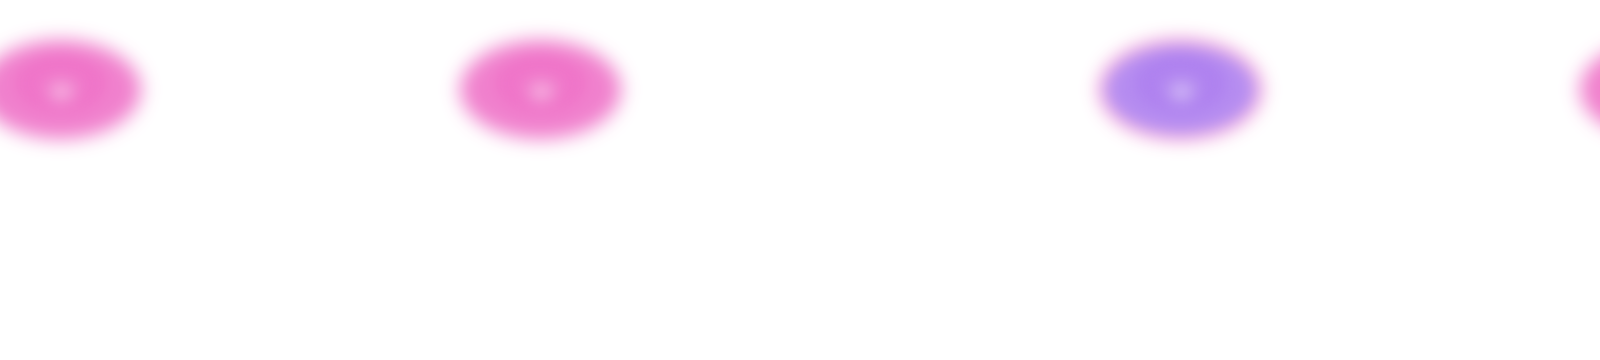
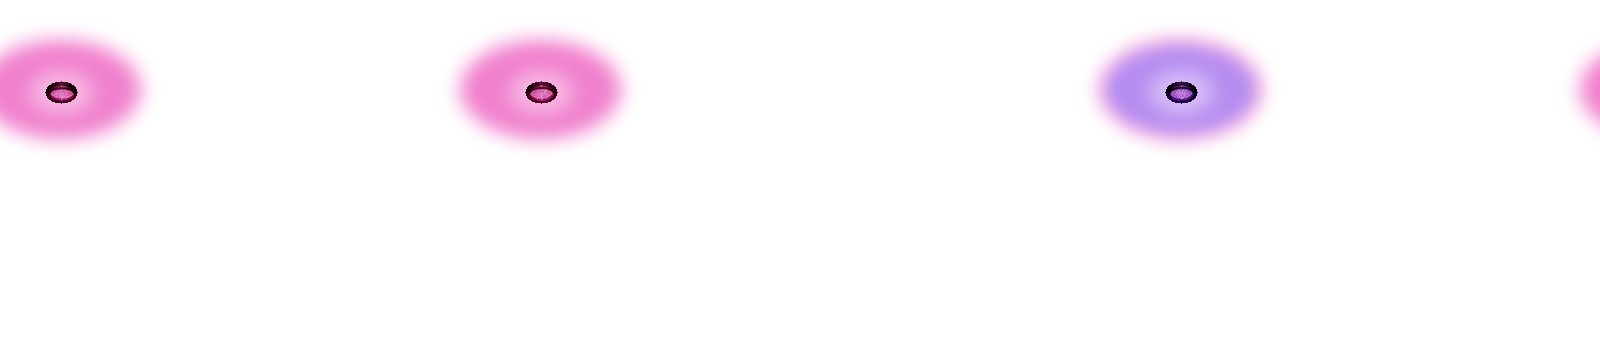
fix: ai art 2

Changed region(s): [[0.3125, 0.1833, 0.375, 0.3361], [0.0, 0.1833, 0.0625, 0.3361], [0.7188, 0.1833, 0.7812, 0.3361]]

diff --git a/tools/prep-concert-lamps.py b/tools/prep-concert-lamps.py
@@ -3,19 +3,28 @@
 
     python3 tools/prep-concert-lamps.py [public/assets/bg/scenery-concert.png] [--out PATH]
 
-Run it on the output of tools/prep-scenery-image.py, in place by default. Two deterministic steps that
+Run it on the output of tools/prep-scenery-image.py, in place by default. Three deterministic steps that
 touch nothing else:
 
   1. The six LIT lamp lenses (lamp heads 0, 2, 3, 5, 7, 8 at x = 60 + 160 * i) are dimmed to a dull
      dark-glass look like the unlit heads, so at the pulse trough the lamps read as off and the additive
      glow images (lens + halo + hot core, tools/gen-concert-assets.py) light them up on the beat.
      Idempotent: only pixels still bright and saturated inside a lens ellipse are changed.
-  2. The top row (and a short fade below it) is made exactly SKY, so `sky` in SCENERY_THEMES.concert
+  2. The coloured haze the AI art paints around each lit lens is neutralised inside a bounded ellipse
+     (HAZE_RX x HAZE_RY around the lens): pixels that are tinted in the lamp's hue are
+     pulled to the median tone of the ring just outside the ellipse, held at the dark tone out to 80% of the radius, then released smoothly (cubic) so there is no disc edge. Grey
+     metal, other hues and everything outside the ellipse stay byte-identical. Idempotent (clamps).
+  3. The top row (and a short fade below it) is made exactly SKY, so `sky` in SCENERY_THEMES.concert
      equals the PNG's top row with no tolerance. Skipped when row 0 is already uniformly SKY.
+
+--save-lit [PATH] first writes the ORIGINAL (lit) lens patches to PATH (default tools/ref/concert-lamps-lit.png,
+committed): tools/gen-concert-assets.py takes the glow lens from `lit - dimmed` so the relit lens at the pulse
+peak reproduces the AI lens exactly. Re-save it whenever a new AI stage is prepped (run on the un-dimmed input).
 
 Needs pillow.
 """
 import argparse
+import colorsys
 import os
 import sys
 
@@ -30,6 +39,70 @@ LAMP_XS = tuple(60 + 160 * i for i in (0, 2, 3, 5, 7, 8))
 # Lens ellipse measured on the AI art: centre (lamp x + 1, 92), the saturated lens spans x -10..+13, y 85..100
 LENS_DX, LENS_CY, LENS_RX, LENS_RY = 1, 92, 16, 11
 DULL = (22, 24, 28)             # unlit-head glass tone
+LIT_PATCHES = os.path.join(ROOT, "tools", "ref", "concert-lamps-lit.png")
+PATCH_W, PATCH_H = 2 * LENS_RX + 1, 2 * LENS_RY + 1
+LAMP_HUES = (312, 185, 312, 185, 275, 185)   # degrees, per LAMP_XS: magenta, cyan, magenta, cyan, purple, cyan
+HAZE_RX, HAZE_RY = 34, 30                    # bounded haze ellipse around the lens (inside the gaps)
+HAZE_HUE_TOL = 45
+HAZE_MIN_SAT = 0.5                           # max-min over max: grey metal is below this
+HAZE_TOL = 3                                 # tinted haze is pulled to within this of the surround tone
+HAZE_BODY_HW = 17                            # half-width of the lamp body above the lens, never touched
+HAZE_HOLD = 0.8                              # fraction of the radius held at the dark tone before the smooth release
+
+
+def lens_box(lx):
+    cx = lx + LENS_DX
+    return cx - LENS_RX, LENS_CY - LENS_RY, cx + LENS_RX + 1, LENS_CY + LENS_RY + 1
+
+
+def in_lens(x, y, cx):
+    return ((x - cx) / LENS_RX) ** 2 + ((y - LENS_CY) / LENS_RY) ** 2 <= 1
+
+
+def save_lit_patches(im, path):
+    sheet = Image.new("RGB", (PATCH_W * len(LAMP_XS), PATCH_H))
+    for i, lx in enumerate(LAMP_XS):
+        sheet.paste(im.crop(lens_box(lx)), (i * PATCH_W, 0))
+    os.makedirs(os.path.dirname(path), exist_ok=True)
+    sheet.save(path)
+
+
+def surround_tone(px, w, cx):
+    """Median RGB of the ring just outside the haze ellipse: the tone the haze is pulled toward."""
+    ring = []
+    for y in range(LENS_CY - HAZE_RY - 4, LENS_CY + HAZE_RY + 5):
+        for x in range(cx - HAZE_RX - 4, cx + HAZE_RX + 5):
+            d = (((x - cx) / HAZE_RX) ** 2 + ((y - LENS_CY) / HAZE_RY) ** 2) ** 0.5
+            if 1.03 <= d <= 1.15 and y >= 0:
+                ring.append(px[x % w, y])
+    return tuple(sorted(p[c] for p in ring)[len(ring) // 2] for c in range(3))
+
+
+def neutralise_haze(im):
+    px = im.load()
+    w, h = im.size
+    for lx, hue in zip(LAMP_XS, LAMP_HUES):
+        cx = lx + LENS_DX
+        tone = surround_tone(px, w, cx)
+        for y in range(LENS_CY - HAZE_RY, LENS_CY + HAZE_RY + 1):
+            for x in range(cx - HAZE_RX, cx + HAZE_RX + 1):
+                d2 = ((x - cx) / HAZE_RX) ** 2 + ((y - LENS_CY) / HAZE_RY) ** 2
+                if d2 >= 1 or in_lens(x, y, cx) or (abs(x - cx) <= HAZE_BODY_HW and y < LENS_CY + 4):
+                    continue                 # (the lamp body sits right above the lens: leave it alone)
+                p = px[x % w, y]
+                mx, mn = max(p), min(p)
+                if mx == 0 or (mx - mn) / mx < HAZE_MIN_SAT or mx > 130:
+                    continue
+                ph = colorsys.rgb_to_hsv(*(c / 255 for c in p))[0] * 360
+                if min(abs(ph - hue), 360 - abs(ph - hue)) > HAZE_HUE_TOL:
+                    continue
+                t = max(0.0, min(1.0, (d2 ** 0.5 - HAZE_HOLD) / (1 - HAZE_HOLD)))   # 0 inside the hold radius, 1 at the edge
+                tol = HAZE_TOL + 300 * t ** 3            # how far from the surround tone a pixel may stay
+                dist = max(abs(a - b) for a, b in zip(p, tone))
+                if dist <= tol + 1:
+                    continue
+                k = tol / dist
+                px[x % w, y] = tuple(round(b + (a - b) * k) for a, b in zip(p, tone))
 
 
 def dim_lenses(im):
@@ -62,8 +135,11 @@ def flatten_sky(im):
             px[x, y] = SKY if y == 0 else tuple(round(a + (b - a) * t) for a, b in zip(p, SKY))
 
 
-def prep(im):
+def prep(im, save_lit=None):
     im = im.convert("RGB")
+    if save_lit:
+        save_lit_patches(im, save_lit)
+    neutralise_haze(im)
     dim_lenses(im)
     flatten_sky(im)
     return im
@@ -73,6 +149,7 @@ if __name__ == "__main__":
     ap = argparse.ArgumentParser()
     ap.add_argument("path", nargs="?", default=DEFAULT)
     ap.add_argument("--out")
+    ap.add_argument("--save-lit", nargs="?", const=LIT_PATCHES, default=None)
     args = ap.parse_args()
-    prep(Image.open(args.path)).save(args.out or args.path)
+    prep(Image.open(args.path), args.save_lit).save(args.out or args.path)
     print("wrote", args.out or args.path)

diff --git a/tests/tools/test_concert_assets.py b/tests/tools/test_concert_assets.py
@@ -97,6 +97,73 @@ class ConcertCrowdTest(unittest.TestCase):
                     for dx in (-10, 0, 12):
                         self.assertGreater(glows[name].getpixel((x + 1 + dx, 92))[3], 200, (name, i, dx))
 
+    def test_relit_lens_reproduces_the_original_lit_lens(self):
+        P = mod.lamps_prep
+        lit = Image.open(P.LIT_PATCHES).convert('RGB')
+        glows = mod.make_glows()
+        worst = 0
+        for n, i in enumerate((0, 2, 3, 5, 7, 8)):
+            glow = glows['magenta' if i % 3 in (0, 1) else 'cyan']
+            x0, y0, _, _ = P.lens_box(P.LAMP_XS[n])
+            cx = P.LAMP_XS[n] + P.LENS_DX
+            for py in range(P.PATCH_H):
+                for pxx in range(P.PATCH_W):
+                    x, y = x0 + pxx, y0 + py
+                    if not P.in_lens(x, y, cx):
+                        continue
+                    base, gl = self.bg.getpixel((x, y)), glow.getpixel((x, y))
+                    got = tuple(min(255, b + g * gl[3] // 255) for b, g in zip(base, gl[:3]))
+                    want = lit.getpixel((n * P.PATCH_W + pxx, py))
+                    worst = max(worst, max(abs(a - b) for a, b in zip(got, want)))
+        self.assertLessEqual(worst, 30)   # only where the dimmed base is brighter than the lit pixel (clipped diff)
+
+    def test_glow_alpha_stays_within_lens_and_halo_radius(self):
+        P = mod.lamps_prep
+        lit_xs = [P.LAMP_XS[n] for n in range(6)]
+        for name, glow in mod.make_glows().items():
+            if name == 'wall':
+                continue
+            al = glow.getchannel('A')
+            for x in range(0, mod.W, 3):
+                near = any(min(abs(x - lx), mod.W - abs(x - lx)) <= 125 for lx in lit_xs)
+                if not near:
+                    self.assertEqual(al.crop((x, 0, x + 1, mod.BG_H)).getextrema()[1], 0, (name, x))
+
+    def test_haze_ring_matches_the_surround_tone(self):
+        P = mod.lamps_prep
+        px = self.bg.load()
+        for lx in P.LAMP_XS:
+            cx = lx + P.LENS_DX
+            tone = P.surround_tone(px, mod.W, cx)
+            dist = []
+            for y in range(P.LENS_CY - 24, P.LENS_CY + 25):
+                for x in range(cx - 28, cx + 29):
+                    d2 = ((x - cx) / 28) ** 2 + ((y - P.LENS_CY) / 24) ** 2
+                    if d2 < 1 and not P.in_lens(x, y, cx) and 0.1 < d2 and not (
+                            abs(x - cx) <= P.HAZE_BODY_HW and y < P.LENS_CY + 4):
+                        p = px[x, y]
+                        if max(p) < 60:           # the dark haze, not truss or hardware
+                            dist.append(max(abs(a - b) for a, b in zip(p, tone)))
+            self.assertLess(sum(dist) / len(dist), 9, lx)
+
+    def test_haze_step_touches_only_its_ellipse(self):
+        P = mod.lamps_prep
+        import random
+        r = random.Random(3)
+        im = Image.new('RGB', (mod.W, 160))
+        px = im.load()
+        for y in range(160):
+            for x in range(mod.W):
+                px[x, y] = (r.randrange(40), r.randrange(40), r.randrange(40))
+        before = im.copy()
+        P.neutralise_haze(im)
+        for y in range(160):
+            for x in range(mod.W):
+                inside = any(((x - (lx + P.LENS_DX)) / P.HAZE_RX) ** 2 + ((y - P.LENS_CY) / P.HAZE_RY) ** 2 < 1
+                             for lx in P.LAMP_XS)
+                if not inside:
+                    self.assertEqual(im.getpixel((x, y)), before.getpixel((x, y)))
+
     def test_prep_concert_lamps_is_idempotent(self):
         spec = importlib.util.spec_from_file_location(
             'prep_concert_lamps', os.path.join(ROOT, 'tools', 'prep-concert-lamps.py'))

diff --git a/tools/gen-concert-assets.py b/tools/gen-concert-assets.py
@@ -57,6 +57,7 @@ def _load(name, file):
 
 night = _load("gen_night_assets", "gen-night-assets.py")
 day = _load("gen_suburb_day_assets", "gen-suburb-day-assets.py")
+lamps_prep = _load("prep_concert_lamps", "prep-concert-lamps.py")
 lerp, wrap_blur, wrapped = night.lerp, night.wrap_blur, night.wrapped
 vgradient, noise_gray = night.vgradient, night.noise_gray
 over = day.over
@@ -450,6 +451,32 @@ def make_bg():
     return bg
 
 
+def paste_real_lenses(glow_img, mods):
+    """Replace the glow under each lit lens ellipse with the REAL lens light of the AI art: lit - dimmed
+    per channel (additive, so shipped base + glow at full alpha reproduces the original lit lens). The
+    lit pixels come from tools/ref/concert-lamps-lit.png (saved by tools/prep-concert-lamps.py --save-lit),
+    the dimmed ones from the shipped scenery-concert.png."""
+    P = lamps_prep
+    lit = Image.open(P.LIT_PATCHES).convert("RGB")
+    dimmed = Image.open(os.path.join(OUT, "scenery-concert.png")).convert("RGB")
+    px = glow_img.load()
+    for n, i in enumerate((0, 2, 3, 5, 7, 8)):
+        if i % 3 not in mods:
+            continue
+        lx = P.LAMP_XS[n]
+        cx = lx + P.LENS_DX
+        patch = lit.crop((n * P.PATCH_W, 0, (n + 1) * P.PATCH_W, P.PATCH_H))
+        x0, y0, _, _ = P.lens_box(lx)
+        for py in range(P.PATCH_H):
+            for pxx in range(P.PATCH_W):
+                x, y = x0 + pxx, y0 + py
+                if not P.in_lens(x, y, cx):
+                    continue
+                diff = tuple(max(0, a - b) for a, b in zip(patch.getpixel((pxx, py)), dimmed.getpixel((x % W, y))))
+                px[x % W, y] = diff + (255,)
+    return glow_img
+
+
 GLOW_GROUPS = {"magenta": (MAGENTA, (0, 1)), "cyan": (CYAN, (2,))}  # group -> (layer colour, lamp i % 3 values)
 
 
@@ -462,15 +489,11 @@ def make_glows():
                 if i not in LIT or i % 3 not in mods:
                     continue
                 x += dx
-                d.ellipse([x - 80, TRUSS_Y - 6, x + 80, TRUSS_Y + 92], fill=lc + (150,))
-                d.ellipse([x - 40, TRUSS_Y + 14, x + 40, TRUSS_Y + 60], fill=lerp(lc, (255, 255, 255), 0.3) + (230,))
-                # the lit lens as it sits on the shipped AI art (centre x + 1, y 92; see tools/prep-concert-lamps.py,
-                # which dims the art's own lens to dark glass), solid so the relit lens at peak covers it fully
-                d.ellipse([x - 13, 92 - 10, x + 15, 92 + 10], fill=lerp(lc, (255, 255, 255), 0.5) + (255,))
-                d.ellipse([x - 6, 92 - 5, x + 8, 92 + 5], fill=(255, 255, 255, 255))
+                d.ellipse([x - 80, TRUSS_Y - 6, x + 80, TRUSS_Y + 92], fill=lc + (150,))          # wide soft halo
+                d.ellipse([x - 30, 92 - 20, x + 32, 92 + 20], fill=lerp(lc, (255, 255, 255), 0.3) + (120,))  # nearer, whiter
         layer = Image.new("RGBA", (W, BG_H), col + (0,))
         wrapped(draw, layer)
-        out[name] = wrap_blur(layer, 9.0)
+        out[name] = paste_real_lenses(wrap_blur(layer, 9.0), mods)
     wall = Image.new("RGBA", (W, BG_H), (190, 110, 255, 0))
     led_wall(wall, glow_only=True)
     halo = Image.new("RGBA", (W, BG_H), (190, 110, 255, 0))

diff --git a/CLAUDE.md b/CLAUDE.md
@@ -33,7 +33,7 @@ Tests use `node --test` and live in `tests/`, so anything under test must stay i
 - `ObstacleSpawner` — spawns the authored waves (`new ObstacleSpawner(scene, waves = WAVES)`; `GameScene` passes `WAVES_HARD` on Hard) from `src/config/waves.js`, timed off song time (passed in from the Conductor) so obstacles arrive at the player on the beat; scroll speed is the player's actual speed, while spawn timing uses a separate `timingSpeed`. The authored waves are flattened once in the constructor into an arrival-sorted `pending` list with a spawn cursor (`next`), so the per-frame scan only covers the lookahead window. Each obstacle gets a deterministic character sprite from `src/config/obstacleSprites.js` (`spriteFor`, avoiding a same-wave repeat), rendered origin `(0,1)` so its left edge and feet line match the sprite's `hw` and shadow (`docs/image-assets.md` "Obstacle character sprites"); the collision box is narrower than the art — `hw × OBSTACLE_HITBOX_SCALE` (`gameConfig.js`), shrunk around the same centre, collision only (art, shadow and spawn timing keep the full `hw`); falls back to the old placeholder rectangle if no sprites are configured
 - `Enemy` — chases from the left; its speed ramps from `ENEMY_SPEED` to `ENEMY_CRUISE_SPEED` anchored to song time, pinning the player into a narrow speed band near max. Tracks the player's row instantly during the intro; once beat sync is on it steps onto the row only on beat crossings, so row-dodging buys up to one beat of separation. Uses the same `RunCycle` helper as `Player` for its visual, with its own `ENEMY_FRAME_COUNT`/`ENEMY_SPRITE_HH` frame set; `GameScene` calls `syncFrame()`/`pulse()` on both the player and the enemy together — each walks at its own `*_RUN_STEPS_PER_BEAT` rate off the same beat grid, and they bounce in lockstep
 - `SpinBikes` — `new SpinBikes(scene, conductor)`: a row of `BIKE_COUNT` front-facing (toward the camera, symmetric) cel-shaded riders (tapered outlined limbs with round joints, oval head with ears, tank/shorts/sneakers/hair per rider from the `BIKE_SKINS`/`BIKE_TOPS`/`BIKE_SHORTS`/`BIKE_HAIR` palettes) on dark stationary spin bikes (floor stabiliser, edge-on flywheel, post, handlebar) with an accent rim light (`BIKE_COLORS`, `BIKE_RIM_ALPHA`), drawn each frame with an invisible Phaser Graphics at `BIKE_RENDER_SCALE`× into a RenderTexture (strip of the scenery height, `STRIP_MARGIN` px past each screen edge) shown scaled back down for smooth edges (no image assets; every part is an outline underlay in `BIKE_OUTLINE_COLOR` then fills with a `shade()` shadow side, light from the upper left), at depth `BIKE_DEPTH` (−9.5, between the scenery strip and the dim overlay). `GameScene` calls `update(section, songMs, worldDx)` right after `scenery.scroll`: the row enters at the right edge on a `bikes` section's first frame (`bikeRowStartX` estimates the x for `?t=` seeks), then accumulates `worldDx × SCENERY_PARALLAX` so it drifts with the backdrop, and keeps drifting after the section ends until its right edge is off-screen left, then hides (`finished` blocks re-entry until a non-bikes frame). Pose is stateless from the beat grid (`conductor.phaseMs`): crank turns once per `BIKE_PEDAL_BEATS`, each leg a 2-bone IK (`legIK`) solved in the sagittal plane from hip to pedal and projected to the screen by `frontLeg` (y kept, knee splayed outward by `BIKE_SPLAY` × forward depth; legs half a turn apart), arms raised and waving on the beat grid (`armLean`/`armPose`): every rider in unison snaps within `BIKE_ARM_HIT_FRAC` of the wave period (1/`BIKE_WAVE_HITS_PER_BEAT` beat; 2 = every half beat) after each hit to a lean toward screen-right on even hits / screen-left on odd (both straight arms stay parallel, pointing straight up between hits, and swing together, toward the front at azimuth `BIKE_ARM_FORWARD_DEG` and projected like the legs so they foreshorten, with the fist scaled by depth via `BIKE_ARM_HAND_DEPTH_SCALE`) (`conductor.gridIndex(BIKE_WAVE_HITS_PER_BEAT)` parity), overshoots the pose by `BIKE_ARM_OVERSHOOT` and settles back over `BIKE_ARM_SETTLE_FRAC`, holds `BIKE_ARM_HOLD_FRAC` of the period, relaxes to `BIKE_ARM_RELAX` of the lean, then rests there (straight up) for the last `BIKE_ARM_REST_FRAC` of the period before the next hit; pedalling is in unison too. Mode `'grip'` instead keeps both hands on the bar ends (`gripArm`: `legIK` elbow flared outward) while shoulders sit `BIKE_GRIP_HUNCH_PX` low (rising `BIKE_SHOULDER_BOB_PX` at a full nod) and the head nods (`headNod(gripDip)`: sinks `BIKE_NOD_DROP_PX`, the hair/cap edge slides down the head so the crown shows and the eyes hide, `BIKE_NOD_*`) — fully down for `BIKE_DIP_HIT_MS` on each beat, back up by mid-beat. Ponytail/bun swing (`BIKE_HAIR_SWING_PX`) replays the nod / arm lean `BIKE_HAIR_LAG_MS` late (`laggedBeat`). Pure maths in `src/spinBikes.js`
-- `Scenery` — the road + background scenery strip, a themed pair from the `SCENERY_THEMES` table (`src/config/sceneryThemes.js`), chosen by song-time **stages** (`src/config/stages.js`: `STAGES` `{ name, startMs, theme }`, pure `stageAt(songMs)`; `suburb` → `suburbDay` → `desert` (AI backdrop over a procedural layout + road, `tools/gen-desert-assets.py`, from 53156 ms) → `underground` (dim tiled underpass, procedural road + scenery, `tools/gen-underground-assets.py`, from 59134 ms) → `concert` (AI restyle of a procedural stage layout + procedural road, glow and crowd layers, `tools/gen-concert-assets.py`, from 63518 ms; `sky` 0x000103; lit lamp lenses dimmed by `tools/prep-concert-lamps.py` so the pulse glow relights them) → placeholders reusing existing themes): a theme may carry an optional `tint` (0xRRGGBB, omitted = unchanged; `suburbDay` darkens its light art) multiplied onto its strips via `setTint` and onto its sky/ground fills via `multiplyColor`, applied per layer set so it crossfades with it; `Scenery` is built with `stageAt(getStartMs())`'s theme and `GameScene` calls `scenery.setBlend(...stageBlend(songMs, STAGE_FADE_BEATS * BEAT_MS))` every frame — the pure `stageBlend` (`src/config/stages.js`) returns `{ from, to, t }`: a stage change crossfades over `STAGE_FADE_BEATS` (`gameConfig.js`, 4 beats; 0 = hard cut) starting at the stage's `startMs`, previous theme into the new one, with `t = 1` and `from === to` otherwise (the first stage never fades). A stage with `cut: true` skips the fade and hard-cuts at its `startMs` (`stage4`, under the `WallBreak` flash). `Scenery` keeps two identical layer sets (strips/fills at −10/−11 for the base showing `from`; an overlay at −9.9/−10.9 showing `to` at alpha `t`, hidden once settled so there is no double draw), only calling `setTexture`/`setFillStyle` when a set's theme changes, and `scroll()` advances both sets together; stateless from song time so `?t=` seeks just work. `BootScene` preloads every theme used in `STAGES`; stage times must sit on a real track beat, which `yarn check:beats` verifies (report only, startMs 0 exempt). A theme may also carry an optional `flicker` ({ key, file }, preloaded by `BootScene`): an RGBA glow image (one plain `Image`, depth −9.95 between the base and overlay strips, tinted like the base theme) that `GameScene` drives every frame with `scenery.setFlicker(lampFlicker(songMs, BEAT_MS))` before `setBlend`/`scroll`. The strip tiles every texture width, but only ONE copy of the lamp flickers: when the stage is settled and the level first goes above 0, the pure `firstCopyFromRight` (`src/lampFlicker.js`, using the theme's `flicker.lampX` in texture px) picks the first copy whose lamp is just off the right edge, and `scroll()` pins the image to that copy (`copyScreenX`, from the strip's `tilePositionX`) so it enters from the right once and drifts off left while later copies stay dead (the choice resets when the base theme changes). Alpha is the level, forced to 0 for the whole stage crossfade (the glow is one theme's lit art behind a hard-edged mask, so over a half-faded mix it shows as a patch). The pure, stateless `lampFlicker` (`src/lampFlicker.js`, tuned by `LAMP_FLICKER_*` in `gameConfig.js`) models a dying tube: mostly dark, burst beats of rapid on/off slots, rare dim blips; `underground` uses it to light its dead lamp (`make_flicker` in `tools/gen-underground-assets.py`). A theme may also carry `crowd` (`[{ key, file }, { key, file }]`, preloaded by `BootScene`; only `concert`): two transparent crowd-silhouette frames (`tools/gen-concert-assets.py`; the base scenery has no crowd so the stage art can be restyled) that `Scenery` draws as one `tileSprite` locked to the scenery's `tilePositionX` at depth −9.85 (over the base, pulse glow and crossfade overlay so people occlude the light behind them; under SpinBikes, the dim and every row). `GameScene` calls `scenery.setCrowdFrame(crowdFrame(conductor.beatTimeMs, BEAT_MS, CROWD_SWAPS_PER_BEAT))`; the pure `crowdFrame` (`src/crowdSway.js`, floor/mod safe, `CROWD_SWAPS_PER_BEAT` 0 pins frame 0) alternates 0/1 every 1/N beat, neighbours being in opposite poses so the crowd ripples. The crowd follows its theme through a crossfade (alpha t as the incoming theme, 1 − t as the outgoing one, full when settled). A theme may also carry `pulse` (`[{ key, file, group }]`, preloaded by `BootScene`; only `concert`): additive glow images (lamp halos/lenses per colour group + the LED wall, `tools/gen-concert-assets.py`) that `Scenery` draws as ADD-blend `tileSprite`s locked to the scenery's `tilePositionX` (depth −9.95, so EVERY tile copy pulses, unlike `flicker`), plus a whole-strip additive brightness-lift rectangle (−9.96, `PULSE_LIFT_COLOR`) under them. `GameScene` calls `scenery.setPulse(beatPulse(conductor.beatTimeMs, BEAT_MS))` every frame; the pure `beatPulse` (`src/beatPulse.js`, stateless so `?t=` seeks and negative times just work, tuned by `PULSE_*` in `gameConfig.js`) returns `{ lift, groups }`: each `PULSE_GROUPS` entry fires on beat-grid slots with `slot mod every === offset` (`divisions` per beat; default magenta on even beats, cyan on odd, wall every half beat) and ease-outs over `decay` slots, scaled by `PULSE_GLOW_STRENGTH`; the lift is `PULSE_LIFT_STRENGTH` fading over `PULSE_LIFT_DECAY_BEATS` each beat; a strength of 0 disables that layer. `Scenery.updatePulse` shows them only while the settled base theme owns them (zero during a crossfade like `flicker`; gated on stage song time, independent of `BEAT_SYNC_START_MS`); they sit below the dim overlay, so dimmed sections darken them. Both layers are `tileSprite`s (`setTileScale(0.5, 0.5)` since the art is authored at 2× logical size) oversized in x to cover the circle the `rotate` section's zoomed-out, spinning camera sweeps, with flat-colour sky/ground rectangles filling in beyond that; `scroll(dxWorldPx)` advances the road's `tilePositionX` and the scenery's at `SCENERY_PARALLAX` (`gameConfig.js`, 0.2) of that, so the backdrop drifts slower than the road and reads as further away (0 = static). It also owns the dim-section row divider lines: dashed lane-line `tileSprite`s (one generated dash+gap texture, scrolled with the road in `scroll()`) at `rowBoundaryYs()` (`src/rowLayout.js`) drawn above the disco dim (depth −5.5) because the road art's own lane lines sit under it; `GameScene` drives them with `setRowLines(dimFade, color, shown)` so they fade with the dim, take the fixed `DISCO_ROW_LINE_COLOR` under `lights` (a pastel outside `DISCO_COLORS`, so they never blend into a beam or the beat flash; white `DIM_ROW_LINE_COLOR` otherwise) and, under `lights` only, blink with a hard cut on the beat grid (steady in other dimmed sections such as `lightsOut`, where the lights-out overlay hides them while dark) — shown for `DIM_ROW_LINE_BLINK_BEATS` beats, then hidden for the same (`conductor.gridIndex`; `DIM_ROW_LINE_*` in `gameConfig.js`)
+- `Scenery` — the road + background scenery strip, a themed pair from the `SCENERY_THEMES` table (`src/config/sceneryThemes.js`), chosen by song-time **stages** (`src/config/stages.js`: `STAGES` `{ name, startMs, theme }`, pure `stageAt(songMs)`; `suburb` → `suburbDay` → `desert` (AI backdrop over a procedural layout + road, `tools/gen-desert-assets.py`, from 53156 ms) → `underground` (dim tiled underpass, procedural road + scenery, `tools/gen-underground-assets.py`, from 59134 ms) → `concert` (AI restyle of a procedural stage layout + procedural road, glow and crowd layers, `tools/gen-concert-assets.py`, from 63518 ms; `sky` 0x000103; lit lamp lenses dimmed and their haze neutralised by `tools/prep-concert-lamps.py`, which also saves the lit lens patches `tools/ref/concert-lamps-lit.png` that `gen-concert-assets.py` turns into the real-lens glow, so the pulse glow relights them) → placeholders reusing existing themes): a theme may carry an optional `tint` (0xRRGGBB, omitted = unchanged; `suburbDay` darkens its light art) multiplied onto its strips via `setTint` and onto its sky/ground fills via `multiplyColor`, applied per layer set so it crossfades with it; `Scenery` is built with `stageAt(getStartMs())`'s theme and `GameScene` calls `scenery.setBlend(...stageBlend(songMs, STAGE_FADE_BEATS * BEAT_MS))` every frame — the pure `stageBlend` (`src/config/stages.js`) returns `{ from, to, t }`: a stage change crossfades over `STAGE_FADE_BEATS` (`gameConfig.js`, 4 beats; 0 = hard cut) starting at the stage's `startMs`, previous theme into the new one, with `t = 1` and `from === to` otherwise (the first stage never fades). A stage with `cut: true` skips the fade and hard-cuts at its `startMs` (`stage4`, under the `WallBreak` flash). `Scenery` keeps two identical layer sets (strips/fills at −10/−11 for the base showing `from`; an overlay at −9.9/−10.9 showing `to` at alpha `t`, hidden once settled so there is no double draw), only calling `setTexture`/`setFillStyle` when a set's theme changes, and `scroll()` advances both sets together; stateless from song time so `?t=` seeks just work. `BootScene` preloads every theme used in `STAGES`; stage times must sit on a real track beat, which `yarn check:beats` verifies (report only, startMs 0 exempt). A theme may also carry an optional `flicker` ({ key, file }, preloaded by `BootScene`): an RGBA glow image (one plain `Image`, depth −9.95 between the base and overlay strips, tinted like the base theme) that `GameScene` drives every frame with `scenery.setFlicker(lampFlicker(songMs, BEAT_MS))` before `setBlend`/`scroll`. The strip tiles every texture width, but only ONE copy of the lamp flickers: when the stage is settled and the level first goes above 0, the pure `firstCopyFromRight` (`src/lampFlicker.js`, using the theme's `flicker.lampX` in texture px) picks the first copy whose lamp is just off the right edge, and `scroll()` pins the image to that copy (`copyScreenX`, from the strip's `tilePositionX`) so it enters from the right once and drifts off left while later copies stay dead (the choice resets when the base theme changes). Alpha is the level, forced to 0 for the whole stage crossfade (the glow is one theme's lit art behind a hard-edged mask, so over a half-faded mix it shows as a patch). The pure, stateless `lampFlicker` (`src/lampFlicker.js`, tuned by `LAMP_FLICKER_*` in `gameConfig.js`) models a dying tube: mostly dark, burst beats of rapid on/off slots, rare dim blips; `underground` uses it to light its dead lamp (`make_flicker` in `tools/gen-underground-assets.py`). A theme may also carry `crowd` (`[{ key, file }, { key, file }]`, preloaded by `BootScene`; only `concert`): two transparent crowd-silhouette frames (`tools/gen-concert-assets.py`; the base scenery has no crowd so the stage art can be restyled) that `Scenery` draws as one `tileSprite` locked to the scenery's `tilePositionX` at depth −9.85 (over the base, pulse glow and crossfade overlay so people occlude the light behind them; under SpinBikes, the dim and every row). `GameScene` calls `scenery.setCrowdFrame(crowdFrame(conductor.beatTimeMs, BEAT_MS, CROWD_SWAPS_PER_BEAT))`; the pure `crowdFrame` (`src/crowdSway.js`, floor/mod safe, `CROWD_SWAPS_PER_BEAT` 0 pins frame 0) alternates 0/1 every 1/N beat, neighbours being in opposite poses so the crowd ripples. The crowd follows its theme through a crossfade (alpha t as the incoming theme, 1 − t as the outgoing one, full when settled). A theme may also carry `pulse` (`[{ key, file, group }]`, preloaded by `BootScene`; only `concert`): additive glow images (lamp halos/lenses per colour group + the LED wall, `tools/gen-concert-assets.py`) that `Scenery` draws as ADD-blend `tileSprite`s locked to the scenery's `tilePositionX` (depth −9.95, so EVERY tile copy pulses, unlike `flicker`), plus a whole-strip additive brightness-lift rectangle (−9.96, `PULSE_LIFT_COLOR`) under them. `GameScene` calls `scenery.setPulse(beatPulse(conductor.beatTimeMs, BEAT_MS))` every frame; the pure `beatPulse` (`src/beatPulse.js`, stateless so `?t=` seeks and negative times just work, tuned by `PULSE_*` in `gameConfig.js`) returns `{ lift, groups }`: each `PULSE_GROUPS` entry fires on beat-grid slots with `slot mod every === offset` (`divisions` per beat; default magenta on even beats, cyan on odd, wall every half beat) and ease-outs over `decay` slots, scaled by `PULSE_GLOW_STRENGTH`; the lift is `PULSE_LIFT_STRENGTH` fading over `PULSE_LIFT_DECAY_BEATS` each beat; a strength of 0 disables that layer. `Scenery.updatePulse` shows them only while the settled base theme owns them (zero during a crossfade like `flicker`; gated on stage song time, independent of `BEAT_SYNC_START_MS`); they sit below the dim overlay, so dimmed sections darken them. Both layers are `tileSprite`s (`setTileScale(0.5, 0.5)` since the art is authored at 2× logical size) oversized in x to cover the circle the `rotate` section's zoomed-out, spinning camera sweeps, with flat-colour sky/ground rectangles filling in beyond that; `scroll(dxWorldPx)` advances the road's `tilePositionX` and the scenery's at `SCENERY_PARALLAX` (`gameConfig.js`, 0.2) of that, so the backdrop drifts slower than the road and reads as further away (0 = static). It also owns the dim-section row divider lines: dashed lane-line `tileSprite`s (one generated dash+gap texture, scrolled with the road in `scroll()`) at `rowBoundaryYs()` (`src/rowLayout.js`) drawn above the disco dim (depth −5.5) because the road art's own lane lines sit under it; `GameScene` drives them with `setRowLines(dimFade, color, shown)` so they fade with the dim, take the fixed `DISCO_ROW_LINE_COLOR` under `lights` (a pastel outside `DISCO_COLORS`, so they never blend into a beam or the beat flash; white `DIM_ROW_LINE_COLOR` otherwise) and, under `lights` only, blink with a hard cut on the beat grid (steady in other dimmed sections such as `lightsOut`, where the lights-out overlay hides them while dark) — shown for `DIM_ROW_LINE_BLINK_BEATS` beats, then hidden for the same (`conductor.gridIndex`; `DIM_ROW_LINE_*` in `gameConfig.js`)
 
 - `WallBreak` — `new WallBreak(scene)`; `GameScene` calls `update(songMs, worldDx, player.row)` right after `spinBikes.update`. A wall seen **edge-on** — one procedural `Graphics` (no wall textures) drawn in local coordinates and only moved per frame: a full-height near-black line `WALL_LINE_WIDTH` (6) px wide from `WALL_LINE_TOP` down, a 1px cold rim light on its left edge, a small concrete cap and a faint dark shadow strip fading out on its right (`WALL_GLOW_*`) — scrolls in during the desert stage; before `WALL_BREAK_MS` its x is the pure `wallX(songMs)` (`src/wallBreak.js`, at `OBSTACLE_TIMING_SPEED`, speedMult 1) so its left edge meets the runner exactly on the beat and `?t=` seeks just work. On the first frame at/after impact it is redrawn once with a gap broken out on the player's row — `wallGap(row)`: the runner's head to feet (`runnerSpan`, padded by `WALL_GAP_PAD_*`), fixed from then on — with jagged stubs at both ends (`gapStubs(row)`: teeth hanging into the gap plus sideways splinters, deterministic); the rest of the line follows the actual `worldDx` until off-screen left. Drawn at `WALL_DEPTH` (above every row). A live impact (first broken frame within `WALL_LATE_MS`) bursts pooled shards (black/dark-grey rectangles `WALL_DEBRIS_COLORS` with a light `WALL_DEBRIS_EDGE_COLOR` outline so they read on the night road) + bluish-grey dust puffs (a soft canvas texture `wall-dust` generated at runtime, once), both stateless from time since impact (`debrisState`/`dustState`, shards landing as rubble on the road), and also draws ~10 thin impact crack lines at the runner's chest height for `WALL_CRACK_MS` (`crackLines`/`crackAlpha`, drawn once, live impacts only), and returns true so `GameScene` fires a one-shot `WALL_FLASH_ALPHA` on the strobe overlay and plays the one-shot `breakwall` SFX (`public/assets/sfx/breakwall.wav`, preloaded by `BootScene`, loudness via the global user volume), covering `stage4`'s hard cut into underground (during the approach the line is the left side of `StationBuilding` below); `wallShake(songMs)` is added to the camera scroll beside `jitterOffset`. All `WALL_*` in `gameConfig.js`
 - `StationBuilding` — `new StationBuilding(scene)`; `GameScene` calls `update(songMs)` just before `wallBreak.update`. A generic subway entrance (no real brand: a down arrow + block-letter bars on a lit sign) whose left side is the wall, so the underground the runner breaks into reads as hidden inside it. Its front **covers everything right of the wall** — scenery, road, lane lines, row shadows and obstacles — so the underground is only seen after the break: one `Image` (`STATION_IMAGE`, `public/assets/station-building.png`, authored at 2x, preloaded by `BootScene`, origin 0,0, display size `STATION_WIDTH` × (`STATION_BOTTOM` − `WALL_LINE_TOP`), x from the wall's left edge, top at the wall's cap height (`WALL_LINE_TOP`), down past the screen bottom (`STATION_BOTTOM` = `GAME_HEIGHT + WALL_OFFSCREEN_PAD`)) that is only moved per frame. The picture is an old, weathered desert subway entrance restyled by Codex's image model from a flat export of the earlier procedural drawing, so the doorway (`STATION_DOOR_*`, a near-black stairwell with sand heaped over its top steps), canopy, sign, route-map panels and plinth sit where the code and tests assume; `tools/prep-station-image.py` resizes the raw output and weathers the plinth band, and the exact `codex exec` command, the prompt and the layout/stretch notes are in `docs/image-assets.md` ("Station building"). Its x is the pure `stationX(songMs)` (`src/stationBuilding.js`): `wallX` before `WALL_BREAK_MS` (`?t=` safe), null once off-screen right or from the impact on — it simply vanishes under the flash as `stage4` cuts to underground. `STATION_WIDTH` keeps it running off the right edge for the whole approach. Depth `STATION_DEPTH` (2.5): above every row (0..2), their shadows (row − 0.5) and afterimages, below the wall line (`WALL_DEPTH` 3), the strobe and the HUD; the player and chaser stay left of the wall until the impact (only the front-row runner's leading foot reaches past it in the last ~45 ms). Because obstacles right of the wall are hidden, **no obstacle may arrive at or within `WALL_CLEAR_BEATS` (2) track beats after `WALL_BREAK_MS`** (pure `inWallClearWindow` in `src/wallBreak.js`, `tests/wallClear.test.js` checks both charts; `tools/gen-waves.py` enforces it when generating). All `STATION_*` in `gameConfig.js`

diff --git a/docs/image-assets.md b/docs/image-assets.md
@@ -497,11 +497,10 @@ on a 1536x1024 canvas filled with its top-row colour (0x020305), then
 raw name) and
 `prep-scenery-image.py scenery raw.png --offset 0 --horizon 0x09090c`
 (offset 0 keeps the band where it was placed; it printed `sky` 0x000003), then
-`tools/prep-concert-lamps.py` (in place, deterministic, idempotent) on the result: it dims
+`tools/prep-concert-lamps.py --save-lit` (in place, deterministic, idempotent) on the result: it first saves the un-dimmed lens patches to `tools/ref/concert-lamps-lit.png` (committed, ~10 KB, so `gen-concert-assets.py` runs from a clean checkout), then dims
 the six LIT lamp lenses (heads 0, 2, 3, 5, 7, 8 at x = 60 + 160 i, lens ellipse centred
 (x + 1, 92)) to dark glass like the unlit heads, so the lamps read as off at the pulse
-trough and the additive glow images relight them on the beat (the glow images carry a
-solid lens ellipse + white core at exactly that spot, drawn by `make_glows`), and makes
+trough and the additive glow images relight them on the beat (the glow lens is the REAL AI lens light, `lit - dimmed` per channel from the saved patches and the shipped PNG, confined to the lens ellipse, so base + glow at full alpha reproduces the lit lens; a procedural soft halo sits around it), neutralises the AI's coloured haze around each lit lens (bounded 34x30 ellipse, tinted pixels of the lamp's hue pulled to the median tone of the ring just outside, lamp body and other hues untouched, smooth release at the edge), and makes
 the top row exactly `sky` 0x000103 with an 8-row fade below it, so the theme's `sky`
 equals the PNG with no tolerance. A re-prep of any new AI run must apply it too.
 Shipped prompt:
